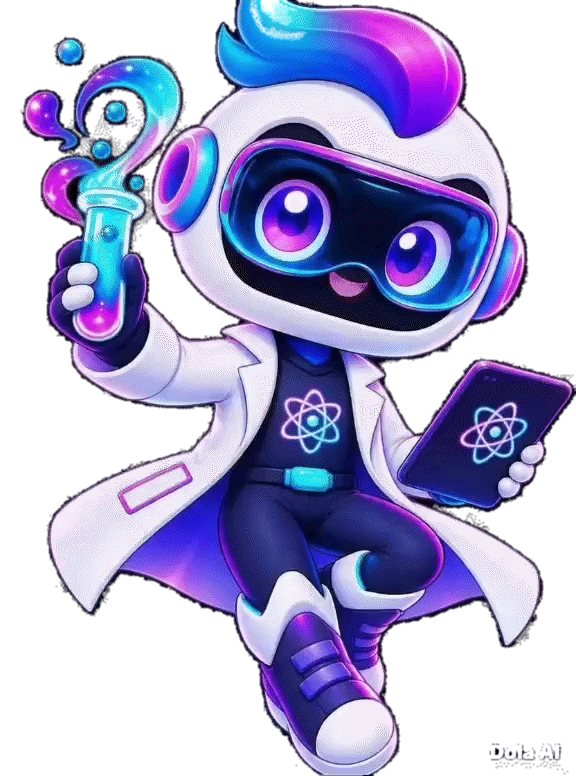
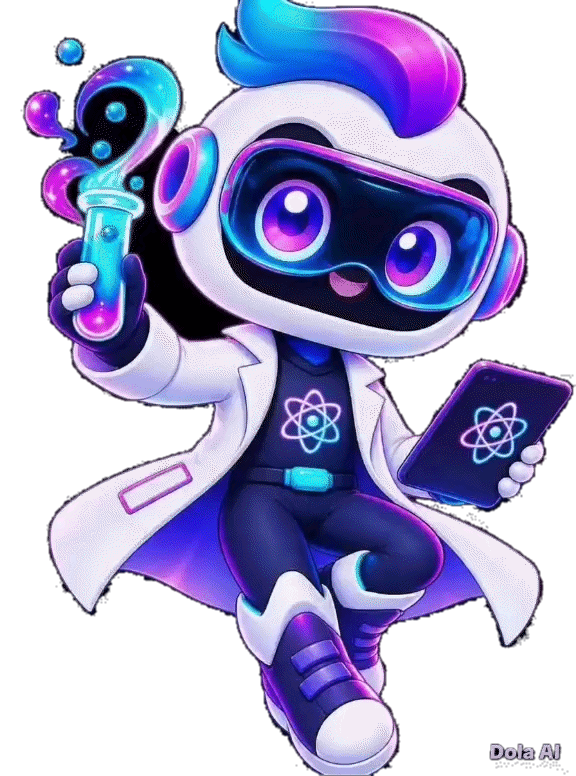
feat: apply transparent animated GIF to 3rd evolution stage with gapless playback

diff --git a/lib/widgets/mascot_3d_viewer.dart b/lib/widgets/mascot_3d_viewer.dart
@@ -359,6 +359,9 @@ class _Mascot3DViewerState extends State<Mascot3DViewer> with TickerProviderStat
 
   String _getMainMascotAssetPath() {
     final stageName = widget.stage.name;
+    if (stageName == 'scientist') {
+      return 'assets/images/mascot/scientist_main.gif';
+    }
     return 'assets/images/mascot/${stageName}_main.png';
   }
 
@@ -544,6 +547,8 @@ class _Mascot3DViewerState extends State<Mascot3DViewer> with TickerProviderStat
                           // Base Mascot Sprite (Transparent background)
                           Image.asset(
                             isFrontView ? _getMainMascotAssetPath() : _getTurnaroundAssetPath(),
+                            key: ValueKey(isFrontView ? _getMainMascotAssetPath() : _getTurnaroundAssetPath()),
+                            gaplessPlayback: true,
                             height: widget.height * 0.76,
                             fit: BoxFit.contain,
                             errorBuilder: (ctx, err, stack) => Icon(
@@ -557,8 +562,8 @@ class _Mascot3DViewerState extends State<Mascot3DViewer> with TickerProviderStat
                             ),
                           ),
 
-                          // Visor Expression & Natural Blink Overlay (shown on front view)
-                          if (isFrontView)
+                          // Visor Expression & Natural Blink Overlay (shown on front view for baby & student)
+                          if (isFrontView && widget.stage != MascotStage.scientist)
                             Positioned(
                               top: widget.height * (widget.stage == MascotStage.scientist ? 0.16 : 0.18) + (_gazeY * 0.6),
                               left: (widget.height * 0.28) + (_gazeX * 0.7),

diff --git a/lib/widgets/level_up_animation_flow.dart b/lib/widgets/level_up_animation_flow.dart
@@ -42,7 +42,7 @@ class _LevelUpAnimationFlowState extends State<LevelUpAnimationFlow> with Single
     {
       'title': '5. SCIENTIST STAGE',
       'subtitle': 'Exploring & Creating',
-      'asset': 'assets/images/mascot/flow_step_5_scientist.png',
+      'asset': 'assets/images/mascot/scientist_main.gif',
       'desc': 'Ultimate Scientist form with glowing beaker, tablet & LEVEL UP badge!',
     },
   ];
@@ -209,6 +209,8 @@ class _LevelUpAnimationFlowState extends State<LevelUpAnimationFlow> with Single
                             Expanded(
                               child: Image.asset(
                                 _steps[idx]['asset']!,
+                                key: ValueKey(_steps[idx]['asset']!),
+                                gaplessPlayback: true,
                                 fit: BoxFit.contain,
                                 errorBuilder: (ctx, err, stack) => const Icon(Icons.flash_on, color: Colors.cyan),
                               ),
@@ -277,6 +279,8 @@ class _LevelUpAnimationFlowState extends State<LevelUpAnimationFlow> with Single
                       ),
                       child: Image.asset(
                         currentStepData['asset']!,
+                        key: ValueKey(currentStepData['asset']!),
+                        gaplessPlayback: true,
                         fit: BoxFit.contain,
                         errorBuilder: (ctx, err, stack) => const Icon(Icons.star, color: Colors.cyan, size: 40),
                       ),

diff --git a/lib/services/character_service.dart b/lib/services/character_service.dart
@@ -214,7 +214,8 @@ class CharacterService {
       case 'student':
         return 'assets/images/character/$g/student.png';
       case 'graduate':
-        return 'assets/images/character/$g/graduate.png';
+      case 'scientist':
+        return 'assets/images/character/$g/graduate.gif';
       case 'worker':
       case 'adult':
         return 'assets/images/character/$g/worker.png';

diff --git a/lib/widgets/evolution_celebration_dialog.dart b/lib/widgets/evolution_celebration_dialog.dart
@@ -43,6 +43,8 @@ class EvolutionCelebrationDialog extends ConsumerWidget {
               child: Center(
                 child: Image.asset(
                   assetPath,
+                  key: ValueKey(assetPath),
+                  gaplessPlayback: true,
                   height: 110,
                   width: 110,
                   fit: BoxFit.contain,
